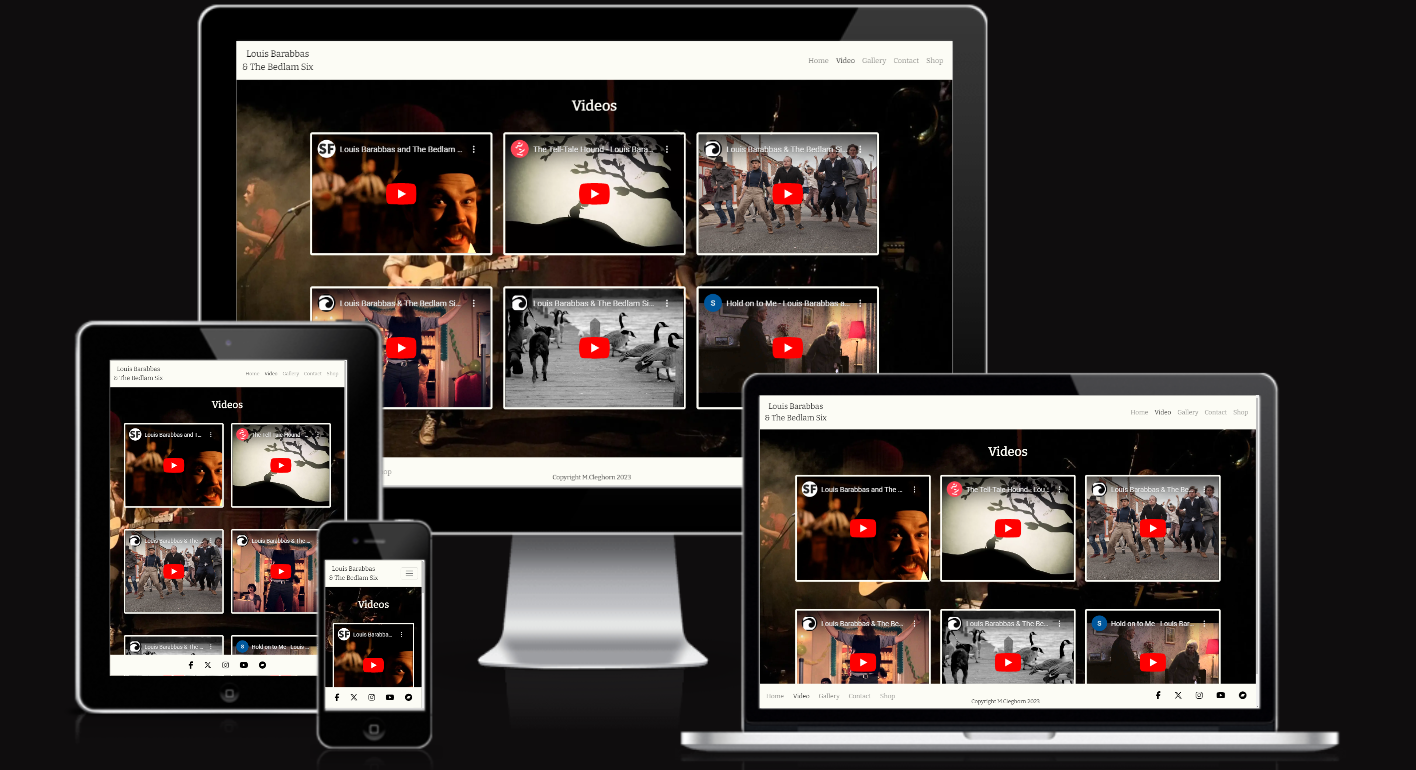
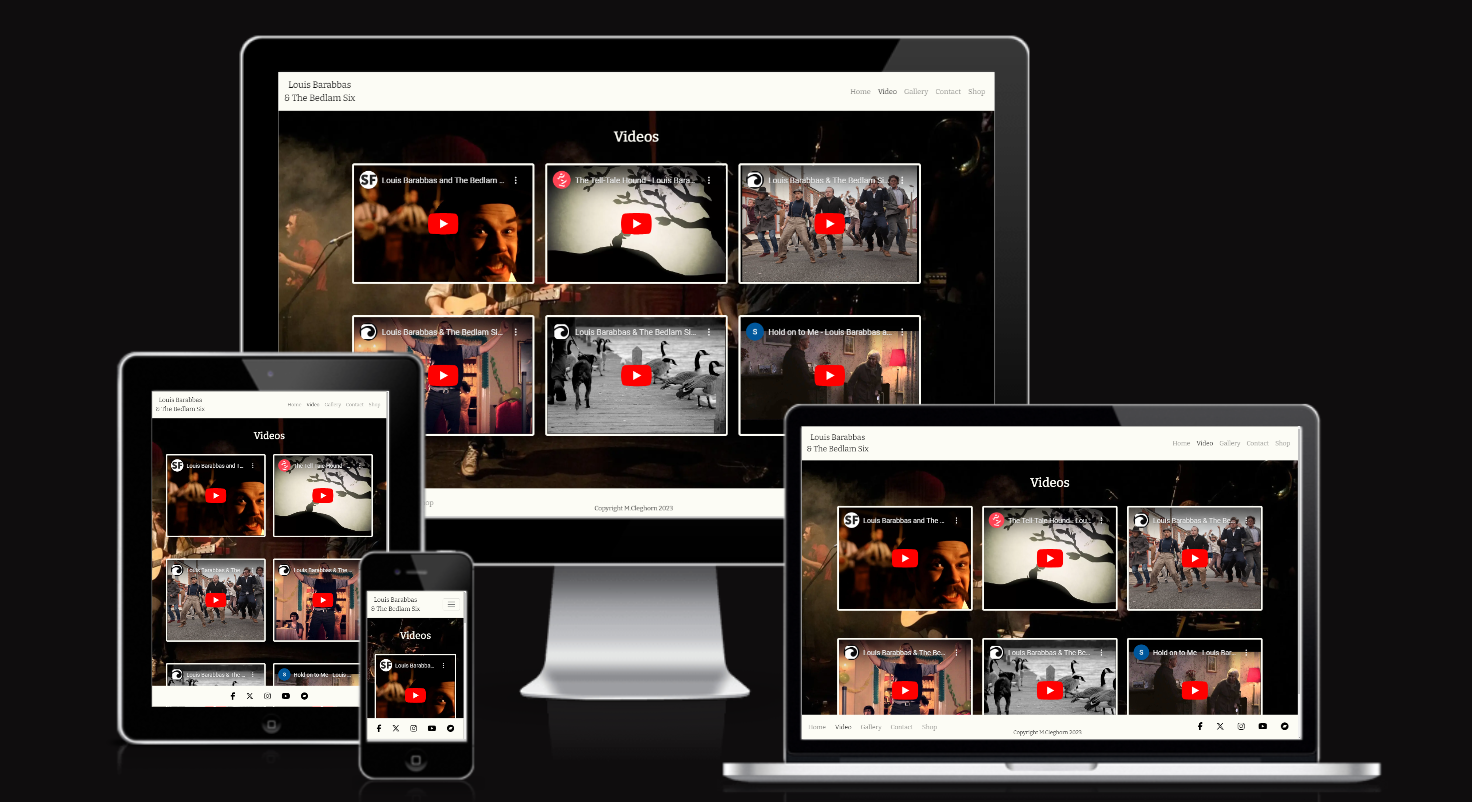
Update readme.md with up to date images

diff --git a/assets/css/style.css b/assets/css/style.css
@@ -5,10 +5,9 @@
     /* Colors */
     --cream: #fcfcf5;
     --off-white: #fafafa;
-    --light-grey: #a0a0a0;
     --black: #000;
-    --nav-text: #00000093;
     --red: #a10f05;
+    --nav-text: #00000093;
     --bg-light: #ffffffb7;
     --bg-dark: #59595941;
 }
@@ -725,8 +724,8 @@ footer {
 
 textarea {
     width: 100%;
-    height: 125px; /* Adjust as needed */
-    resize: vertical; /* Allow vertical resizing */
+    height: 125px; 
+    resize: vertical; 
   }
 
 .form-button {
@@ -888,7 +887,6 @@ textarea {
     }
 
     .quote-container {
-        /* animation-delay: 3s; */
         transform: translate(-50%, -40%);
     }
 
@@ -911,7 +909,6 @@ textarea {
     }
 
     .quote-container {
-        /* animation-delay: 4s; */
         transform: translate(-50%, -45%);
     }
 

diff --git a/README.md b/README.md
@@ -1,6 +1,6 @@
 # Resurrect Louis Barabbas & The Bedlam Six
 
-![Resurrect Louis Barabbas & The Bedlam Six shown on a variety of screen sizes](documents/readme-images/air-ss.png)
+![Resurrect Louis Barabbas & The Bedlam Six shown on a variety of screen sizes](documents/readme-images/readme-main.png)
 
 Visit the deployed site here: [Resurrect The Bedlam Six](https://cleg83.github.io/Resurrect-The-Bedlam-Six-Project/).
 
@@ -84,28 +84,48 @@ In a time when grassroots music venues are disappearing on a weekly basis, I fee
 
 ### Colour Scheme
 
-All the pages of the site use the same background image so I wanted to chose a color scheme that contrasted with the image in a visually pleasing and coherent manner.
+All the pages of the site have a background image so I wanted to chose a color scheme that contrasted with the image in a visually pleasing and coherent manner. 
+
+![Color scheme](documents/readme-images/rtb6-color-scheme.png)
+
+All colors were declared as CSS variables: 
+
+![Color variables](documents/readme-images/color-variables.png)
 
 * I have used `#fcfcf5` as the text color when the background is dark & `#000000` for the text color when the background is light.
 * I have also used `fcfcf5` as the color for the navbar and the footer.
 * I have used `#a10f05` as the hover color and the color of the form submit buttons.
 * I have used `#fafafa` with the opcacity set to 95% for the contact form background and as the background for each band member's profile. The difference is subtle but works more effectively than using `fcfcf5` for these sections.
+* The --bg variable names are the backgrounds for the home page content (when hovered and when not hovered).
+* The --nav-text variable is for the non-active header and footer links.
 
-  ![Color scheme](documents/readme-images/color-scheme.png)
+  
 
-### Background image
+### Background images
 
 As the website is dedicated to bringing back a band few have heard of, I have chosen a background image of the band on stage for all pages. The image is mostly dark which allows text to be easily read across all pages.  
 
-![Bedlam-stage-background](assets/images/bedlam-stage-background.jpg)
+![Main background image](assets/images/home-page/bedlam-stage-background-1.webp)
+
+On narrower screens, the contrast wasn't great between the image and text. As a result, the background image changes to the below on narrower screens.
+
+![Background image on smaller screens](assets/images/home-page/bedlam-stage-background-small-screens.webp)
+
+
 
 ### Typography
 
 Google Fonts was used to import the chosen fonts for use in the site.
 
-* Throughout all of the site I have used the google font [Bitter](https://fonts.google.com/specimen/Bitter?query=bitter). Bitter has that classic, old-timey look that fits perfectly with the bands aesthetic.
+* For the site heading and throughout most of the site I have used the Google Font [Bitter](https://fonts.google.com/specimen/Bitter?query=bitter). Bitter has that classic, old-timey look that fits perfectly with the bands aesthetic. THe header and heading text both use Bitter.
 
 ![Bitter font example](documents/readme-images/google-fonts-bitter-example.png)
+
+For the quotes and band member info, I opted for the Google Font [Cardo](https://fonts.google.com/specimen/Cardo).
+
+![Cardo font example 1](documents/readme-images/google-fonts-cardo-example.png)
+
+![Cardo font example 1](documents/readme-images/cardo2.png)
 
 ### Wireframes
 
@@ -157,13 +177,41 @@ The image below shows the expanded navbar and also shows that the active state o
 
 #### The Home Page 
 
-The home page of Resurrect Louis Barabbas & The Bedlam Six makes a bold demand in the page heading: "Bring back Louis Barabbas & The Bedlam Six" When viewd on a desktop, I have left a lot of vertical space beneath the page heading, showing the page background image almost in full before the smaller heading poses this question: "Is it time to bring back the greatest band you've probably never heard of?".
-
 ![Home page image 1](documents/readme-images/home-page-ss.png)
 
-When you scroll down the home page you encounter a smaller heading directin you to the content below which comproises of a static embedded Bandcamp player on the left of the screen and a scrollable band member section on the right. 
+The home page of Resurrect Louis Barabbas & The Bedlam Six makes a bold demand in the page heading: "Bring back Louis Barabbas & The Bedlam Six." 
+
+As the page loads, 2 quotes slide in from the left and two from the right. The font color fades from light to dark, the padding increases and a background appears. I have attempted to capture this effect in the images below:
+
+![Early fade in](documents/readme-images/quotes-early-fade.png)
+
+![Late fade in](documents/readme-images/quote-late-fade.png)
+
+Fewer quotes display on narrower screens, 3 quotes display on most mobiles and only 2 on the narrowest:
+
+![Screen with 3 quotes](documents/readme-images/3quotes.png)
+
+![Screen with 2 quotes](documents/readme-images/2quotes.png)
+
+
+When you scroll down the home page it snaps to the section below (on devices narrower than 768px, the snap feature has been disabled).
+This section opens with a heading that poses a question: smaller heading poses this question: "Is it time to bring back the greatest band you've probably never heard of?".
+
+Below the heading there is an embedded Bandcamp player on the left of the screen and a scrollable band member article on the right which snaps to each band member when scrolled. 
 
 ![Home page image 2](documents/readme-images/home-page2-ss.png)
+
+When the user hovers over the bandcamp player or the band members, the background color of the container changes to show it is in focus:
+
+![Bandcamp player in focus](documents/readme-images/home-page-bandcamp-focus.png)
+
+![Band members in focus](documents/readme-images/home-page2-member-focus.png)
+
+As you can see, when the band members are hovered / in focus, the padding at the top increases and the scroll bar appears. 
+
+Also, when a user clicks on the band members a name, some more information is displayed (this is achieved by using details and summary html elements).
+
+![Band members in focus with summary expanded](documents/readme-images/home-page2-member-focus-summary.png)
 
 On devices with displays of 768px and smaller, the Bandcamp player is centered and the scrollable band member section is centred beneath the Bandcamp player.
 
@@ -171,13 +219,17 @@ On devices with displays of 768px and smaller, the Bandcamp player is centered a
 
 #### The Footer
 
-I wanted the footer to include the same 5 links contained in the navbar and also include the relevant social media icons. Only on larger screens is the copyright displayed.
+I wanted the footer to include the same 5 links contained in the navbar and also include the relevant social media icons. On larger screens the copyright is displayed in the center.
 
-![Footer image 1](documents/readme-images/footer-ss1.png)
+![Footer image 1](documents/readme-images/footer1.png)
 
-On mobile devices I wanted the links and icons to display on top of one another, rather than inline. This was achieved by making the columns full width on smaller devices using Bootstrap's class naming system.
+On tablets, the footer looks like this:
 
-![Footer image 2](documents/readme-images/footer-ss2.png)
+![Footer image 2](documents/readme-images/footer2.png)
+
+On devices narrower than 768px, only the social media icons are displayed:
+
+![Footer image ](documents/readme-images/footer3.png)
 
 #### The Video Page
 
@@ -193,6 +245,10 @@ On smaller devices, the videos are displayed in a 1x6 grid.
 
 ![Image of large screen video page](documents/readme-images/video-page-ss3.png)
 
+When a video is hovered, the border color changes to red.
+
+![Image of a video being hovered](documents/readme-images/video-border-ss.png)
+
 
 #### The gallery page
 
@@ -200,26 +256,29 @@ The gallery page is thumbnail image gallery of the band and band members. A sele
 
 ![Image of the gallery page](documents/readme-images/gallery-ss.png)
 
-All images open in a new browser tab when clicked. 
+All images open in a new browser tab when clicked. This required an html page to be made for each image and very basic styling to be applied (background-color and font to keep consistency).
 
 ![Image of new browser tab with full-size image](documents/readme-images/clicked-photo.png)
 
+As with the video page, when a photo is hovered, the border color changes to red.
+
+![Image of a video being hovered](documents/readme-images/gallery-border-ss.png)
 
 #### The Contact Page
 
 The contact page comprises of a simple contact form that requires the user to input their name, email address and to provide information about the event they want to discuss with the band.
 
-![Contact page image](documents/readme-images/contact-page-ss1.png)
+![Contact page image](documents/readme-images/contact-ss.png)
 
 #### The Submit Page
 
 On the user submitting the contact form with all required fields completed, I wanted a new page to load that thanks the user for contacting the band and provides a link back to the home page. 
 
-![Submit page image](documents/readme-images/submit-ss1.png)
+![Submit page image](documents/readme-images/submit-ss.png)
 
 #### The Shop Page
 
-The shop link in the header and footer link to the Bancamp page for Louis Barabbas & The Bedlam Six and opens in a new browser window / tab. 
+The shop link in the header and footer link to the Bandcamp page for Louis Barabbas & The Bedlam Six and opens in a new browser window / tab. 
 
 ![Bandcamp shop image](documents/readme-images/bandcamp-store-ss1.png)
 
@@ -239,9 +298,9 @@ For future implementations of the site, I would like to:
 I have made the site with accessibility in mind and
 
 * Using semantic HTML.
-* Utilising the appropriate ARIA atrributes when needed.
+* Utilising the appropriate ARIA attributes when needed.
 * Utilising a hover state on all links on the site to make it clear to the user if they are hovering over a link.
-* Utilising a sans serif font for the site due to being more dyslexia-friendly than other font families.
+* Utilising sans serif fonts for the site due to being more dyslexia-friendly than other font families.
 * Making sure to use contrasting colors for images and text.
 
 - - -
